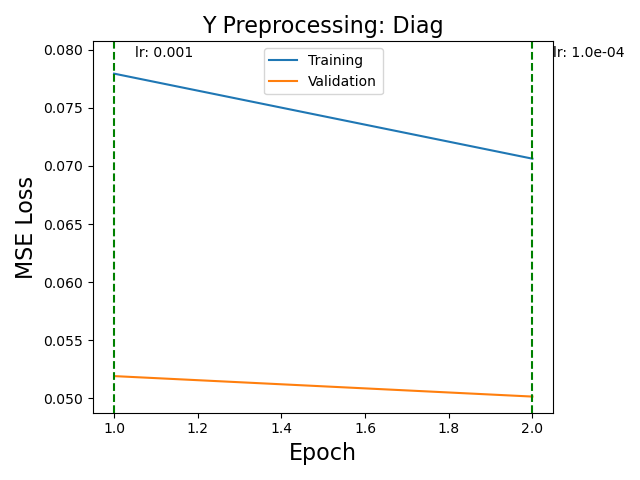
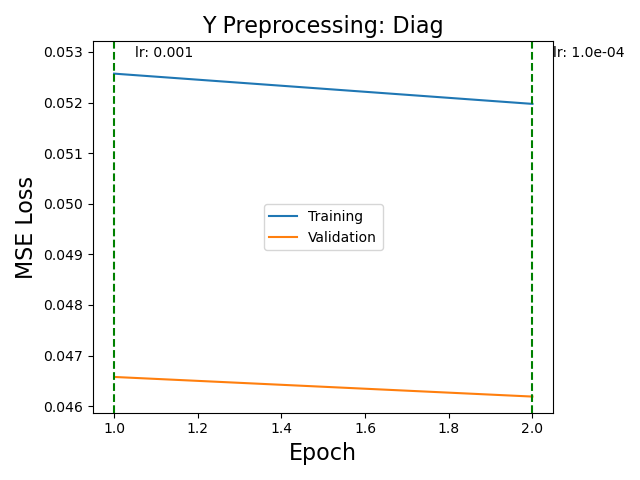
update

diff --git a/preprocess_data.py b/preprocess_data.py
@@ -15,7 +15,7 @@ def setupParser():
     # dataloader args
     parser.add_argument('--split', type=str2list, default=[0.8, 0.1, 0.1], help='Train, val, test split for dataset')
     parser.add_argument('--shuffle', type=str2bool, default=True, help='Whether or not to shuffle dataset')
-    parser.add_argument('--batch_size', type=int, default=16, help='Training batch size')
+    parser.add_argument('--batch_size', type=int, default=1, help='Training batch size')
     parser.add_argument('--num_workers', type=int, default=5, help='Number of processes to use')
 
     # model args
@@ -23,9 +23,9 @@ def setupParser():
     parser.add_argument('--n', type=int, default=1024, help='Number of particles')
 
     # preprocessing args
-    parser.add_argument('--sample_size', type=int, default=5, help='Size of sample for preprocessing statistics')
+    parser.add_argument('--sample_size', type=int, default=200, help='Size of sample for preprocessing statistics')
     parser.add_argument('--seed', type=int, default=42, help='Random seed to use. Default: 42')
-    parser.add_argument('--overwrite', type=str2bool, default=False, help='Wheter or not to overwrite existing preprocessing files')
+    parser.add_argument('--overwrite', type=str2bool, default=False, help='Whether or not to overwrite existing preprocessing files')
     parser.add_argument('--percentiles', type=str2list, default=[20, 40, 50, 60, 70, 80, 85, 90, 95, 100], help='Percentiles to use for percentile preprocessing')
 
     return parser
@@ -112,8 +112,7 @@ def diag_processing(opt, out_paths):
     # determine mean_dist for diagonal preprocessing
     meanDist_path = os.path.join(opt.output_folder, 'meanDist.npy')
     if not os.path.exists(meanDist_path):
-        train_dataloader, _, _ = getDataLoaders(Names(opt.output_folder), 1,
-                                                opt.num_workers, opt.seed, opt.split)
+        train_dataloader, _, _ = getDataLoaders(Names(opt.output_folder), opt)
         meanDist = np.zeros(opt.n)
         for i, path in enumerate(train_dataloader):
             if i < opt.sample_size: # dataloader shuffles so this is a random sample
@@ -145,8 +144,7 @@ def percentile_processing(opt, out_paths):
     # determine prcnt_dist for percentile preprocessing
     prcntDist_path = os.path.join(opt.output_folder, 'prcntDist.npy')
     if not os.path.exists(prcntDist_path):
-        train_dataloader, _, _ = getDataLoaders(Names(opt.output_folder), 1,
-                                                opt.num_workers, opt.seed, opt.split)
+        train_dataloader, _, _ = getDataLoaders(Names(opt.output_folder), opt)
         y_arr = np.zeros((opt.sample_size, opt.n, opt.n))
         for i, path in enumerate(train_dataloader):
             if i < opt.sample_size: # dataloader shuffles so this is a random sample

diff --git a/neural_net_utils/utils.py b/neural_net_utils/utils.py
@@ -528,9 +528,7 @@ def plotDistanceStratifiedPearsonCorrelation(val_dataloader, model, ofile, opt):
             # manually using batchsize of 1
             xj = x[j].unsqueeze(0)
             yj = y[j].unsqueeze(0)
-            print(yj)
             yhat = model(xj)
-            print('yhat', yhat)
             yj = yj.cpu().numpy().reshape((opt.n, opt.n))
             yhat = yhat.cpu().detach().numpy()
 
